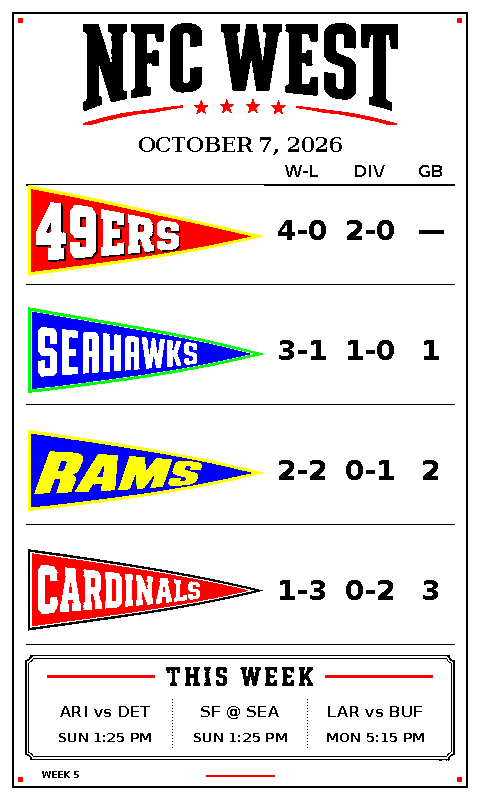
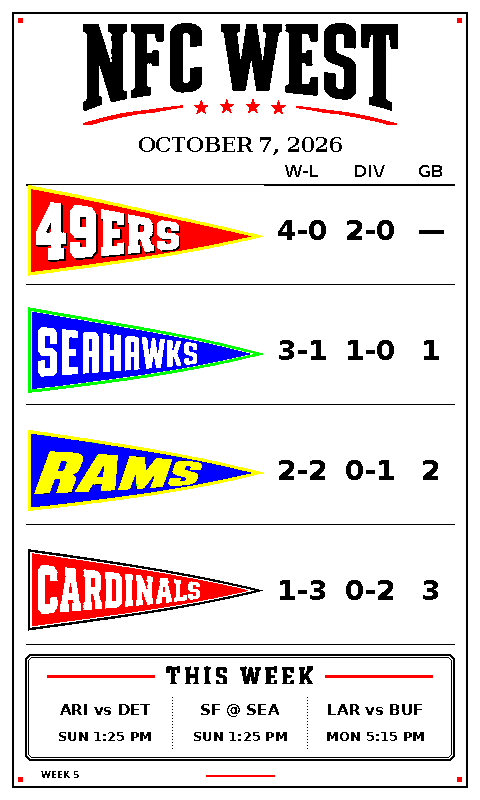
Sharpen This Week type and redraw its box natively
Pillow's 1-bit font mode thinned the bold matchup labels and let letters
drift apart ("AR I"), and thresholding the master's scaled artwork left
the slab title notched and the box's hairlines dashed. Render footer type
antialiased and keep pixels at least half covered, draw the double rule
and red rules natively, and take only the title from the master through a
BOX downsample, which thresholds cleanly.

Claude-Session: https://claude.ai/code/session_01X9UHWjt2S7gzFpZBcz7KNK

Changed region(s): [[0.0625, 0.875, 0.9375, 0.9688], [0.0625, 0.8125, 0.9375, 0.8438]]

diff --git a/render_nfl.py b/render_nfl.py
@@ -66,8 +66,8 @@ ROW_CENTERS = (230, 350, 470, 590)
 STAT_X = (302, 370, 431)  # W-L, DIV, GB
 STAT_WIDTHS = (68, 62, 44)
 DATE_X, DATE_Y = 240, 145
-# The master's This Week box, without its outer border.
-FOOTER_BOX = (22, 653, 458, 785)
+# The slab "THIS WEEK" title in the master artwork, in device pixels.
+TITLE_BOX = (164, 664, 316, 684)
 # Where the pole's left edge lands once the transparent margin is trimmed off.
 # Set to the column SEA and LAR already hung from, so the two clubs that were
 # in line stay put and the two that were inset move out to meet them.
@@ -395,28 +395,48 @@ def fitted_font(text: str, path: str, size: int, width: int, minimum: int = 14):
     raise ValueError(f"Label does not fit in {width}px at {minimum}px: {text!r}")
 
 
+def _chamfered(box: tuple[int, int, int, int], cut: int) -> list[tuple[int, int]]:
+    left, top, right, bottom = box
+    return [(left + cut, top), (right - cut, top), (right, top + cut), (right, bottom - cut),
+            (right - cut, bottom), (left + cut, bottom), (left, bottom - cut), (left, top + cut)]
+
+
+def draw_crisp_text(img: Image.Image, xy, text: str, font, fill=BLACK, anchor: str = "mm") -> None:
+    """Small type with even spacing and full weight in a single ink.
+
+    Pillow's 1-bit font mode hints glyphs onto the pixel grid on its own,
+    which thins bold faces and lets letters drift apart ("AR I") at footer
+    sizes. Rendering antialiased and keeping every pixel at least half covered
+    keeps the face's real weight and spacing.
+    """
+    mask = Image.new("L", img.size, 0)
+    ImageDraw.Draw(mask).text(xy, text, font=font, fill=255, anchor=anchor)
+    img.paste(fill, mask.point(lambda v: 255 if v >= 128 else 0))
+
+
 def render_week_footer(img: Image.Image, week: int | None, games: list[dict]) -> None:
     """Draw the This Week box in the same solid inks as the rest.
 
-    The box and its title come from the master artwork, flattened
-    like the masthead. Only the box is taken, not the master's own outer
-    border, so the single frame drawn by `render` runs unbroken top to bottom.
+    The box's double rule is drawn natively: the master's hairlines straddle
+    pixel rows once scaled, so any threshold leaves them dashed. Only the slab
+    title is taken from the master, to match the masthead.
     """
-    with Image.open(ASSETS / "background.png") as master:
-        art = master.convert("RGB").resize(DEVICE_OUTPUT_SIZE, Image.Resampling.LANCZOS)
-    img.paste(panel_artwork(art.crop(FOOTER_BOX), title=True), FOOTER_BOX[:2])
-
     draw = ImageDraw.Draw(img)
-    draw.fontmode = "1"
-    # Blank the master's placeholder week label, its tagline and the scraps of
-    # its corner ornaments, then redraw the week.
-    for box in ((22, 762, 120, 785), (330, 762, 458, 785)):
-        draw.rectangle(box, fill=WHITE)
-    week_font = load_font(FONT_BOLD, 9)
-    draw.text((41, 775), f"WEEK {week or '—'}", font=week_font, fill=BLACK, anchor="lm")
+    draw.polygon(_chamfered((25, 654, 454, 760), 4), outline=BLACK, width=2)
+    draw.polygon(_chamfered((28, 657, 451, 757), 3), outline=BLACK, width=1)
+    draw.rectangle((47, 675, 154, 677), fill=RED)
+    draw.rectangle((325, 675, 432, 677), fill=RED)
+    draw.rectangle((206, 775, 274, 776), fill=RED)
 
+    with Image.open(ASSETS / "background.png") as master:
+        # BOX averaging, unlike LANCZOS, adds no ringing, so one luminance
+        # threshold gives the slab title even strokes with no notches.
+        title = master.convert("L").resize(DEVICE_OUTPUT_SIZE, Image.Resampling.BOX).crop(TITLE_BOX)
+    img.paste(BLACK, TITLE_BOX[:2], title.point(lambda v: 255 if v < 150 else 0))
+
+    draw_crisp_text(img, (41, 775), f"WEEK {week or '—'}", load_font(FONT_BOLD, 9), anchor="lm")
     if not games:
-        draw.text((240, 724), "SCHEDULE UNAVAILABLE", font=load_font(FONT_BOLD, 14), fill=BLACK, anchor="mm")
+        draw_crisp_text(img, (240, 722), "SCHEDULE UNAVAILABLE", load_font(FONT_BOLD, 14))
         return
     games = games[:4]
     left, right = 37, 443
@@ -426,13 +446,13 @@ def render_week_footer(img: Image.Image, week: int | None, games: list[dict]) ->
         cx = left + width * (i + 0.5)
         if i:
             sx = int(left + width * i)
-            for y in range(699, 749, 3):  # dotted column rule
+            for y in range(697, 749, 3):  # dotted column rule
                 draw.point((sx, y), fill=BLACK)
         name, status = matchup_label(game), status_label(game)
-        draw.text((cx, 712), name, font=fitted_font(name, FONT_HEAVY, name_size, int(width) - 8, 9),
-                  fill=BLACK, anchor="mm")
-        draw.text((cx, 737), status, font=fitted_font(status, FONT_BOLD, time_size, int(width) - 8, 8),
-                  fill=BLACK, anchor="mm")
+        draw_crisp_text(img, (cx, 710), name,
+                        fitted_font(name, FONT_HEAVY, name_size, int(width) - 8, 9))
+        draw_crisp_text(img, (cx, 736), status,
+                        fitted_font(status, FONT_BOLD, time_size, int(width) - 8, 8))
 
 
 def render(standings: list[dict], week: int | None, games: list[dict], now: datetime,
